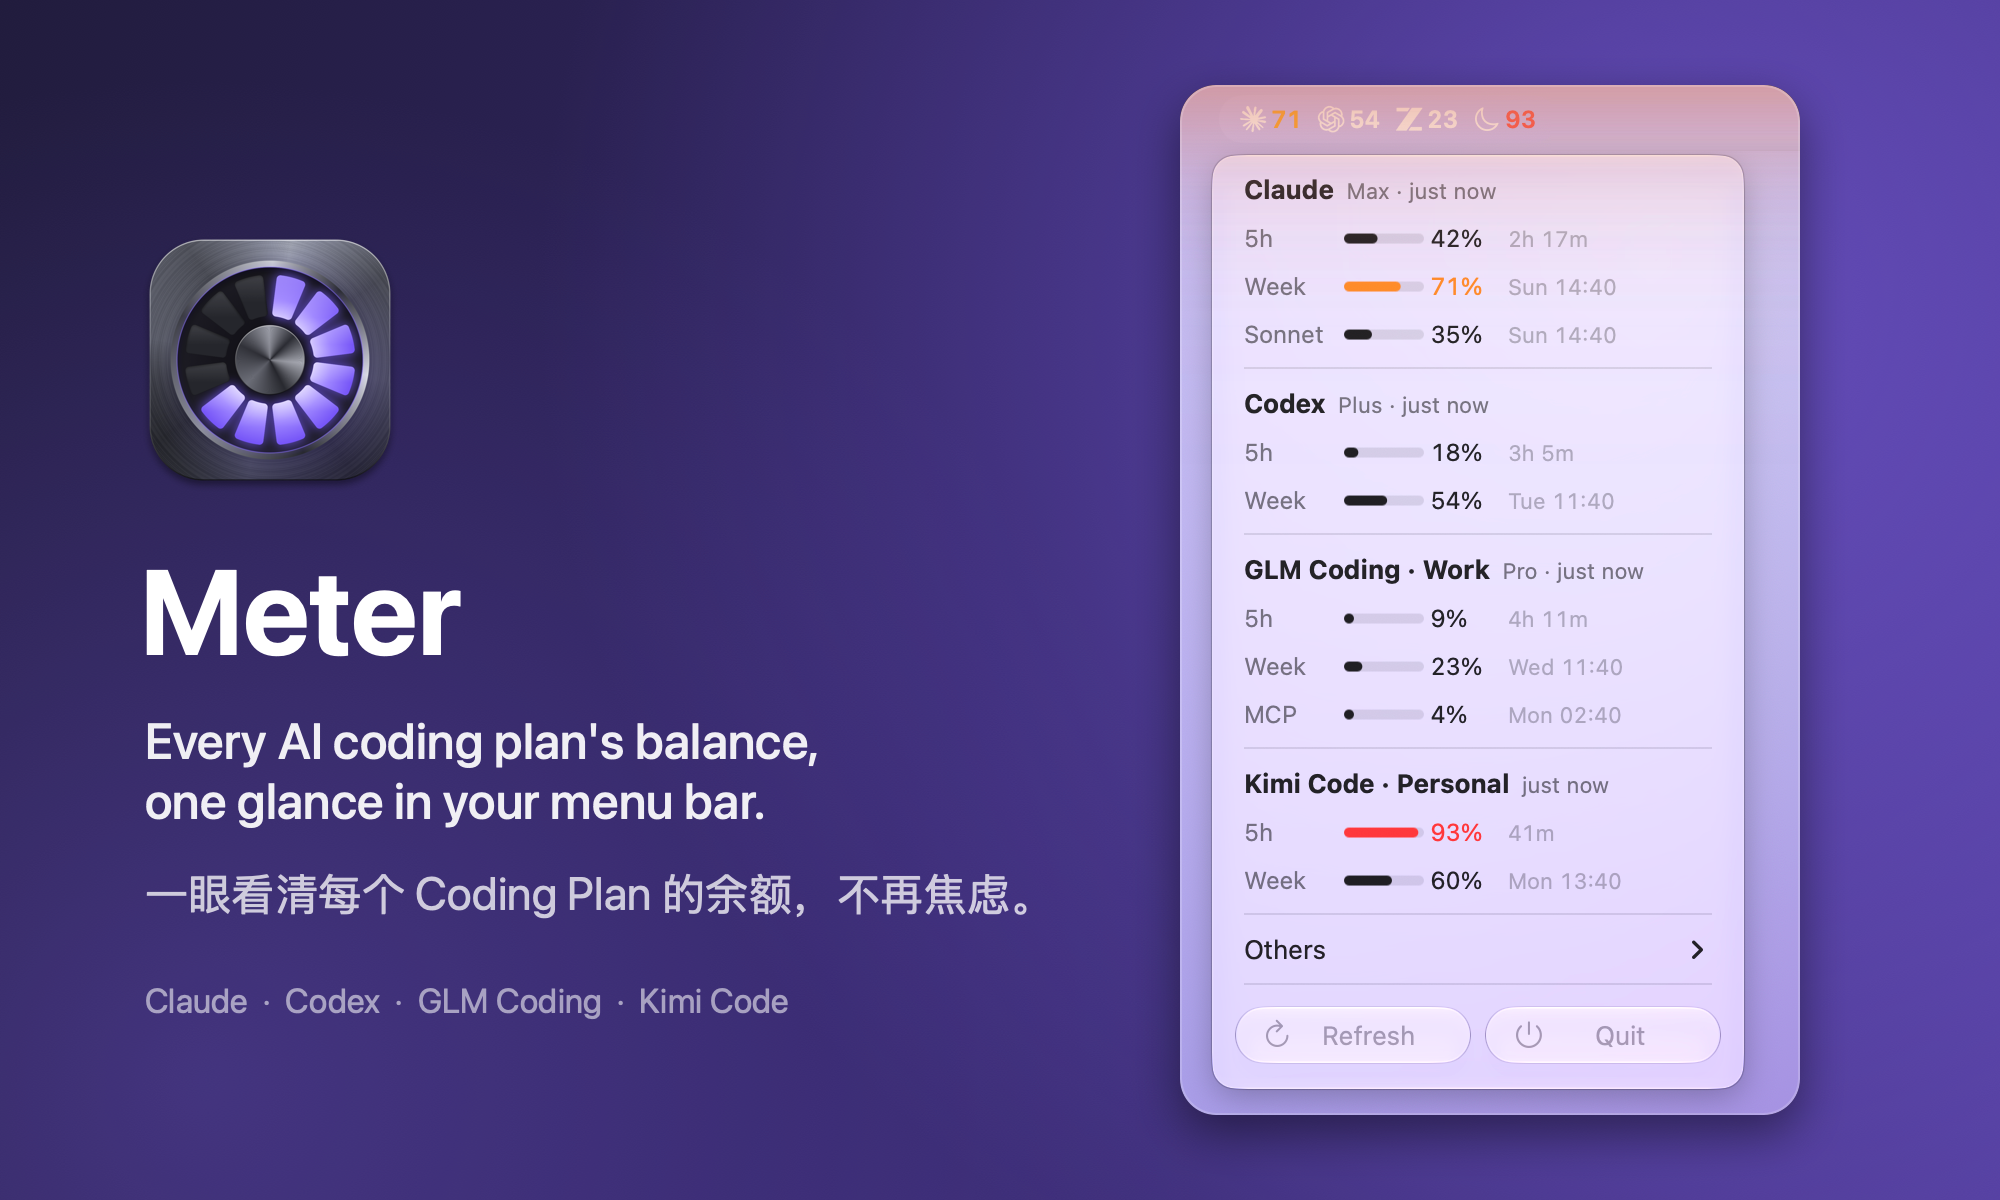
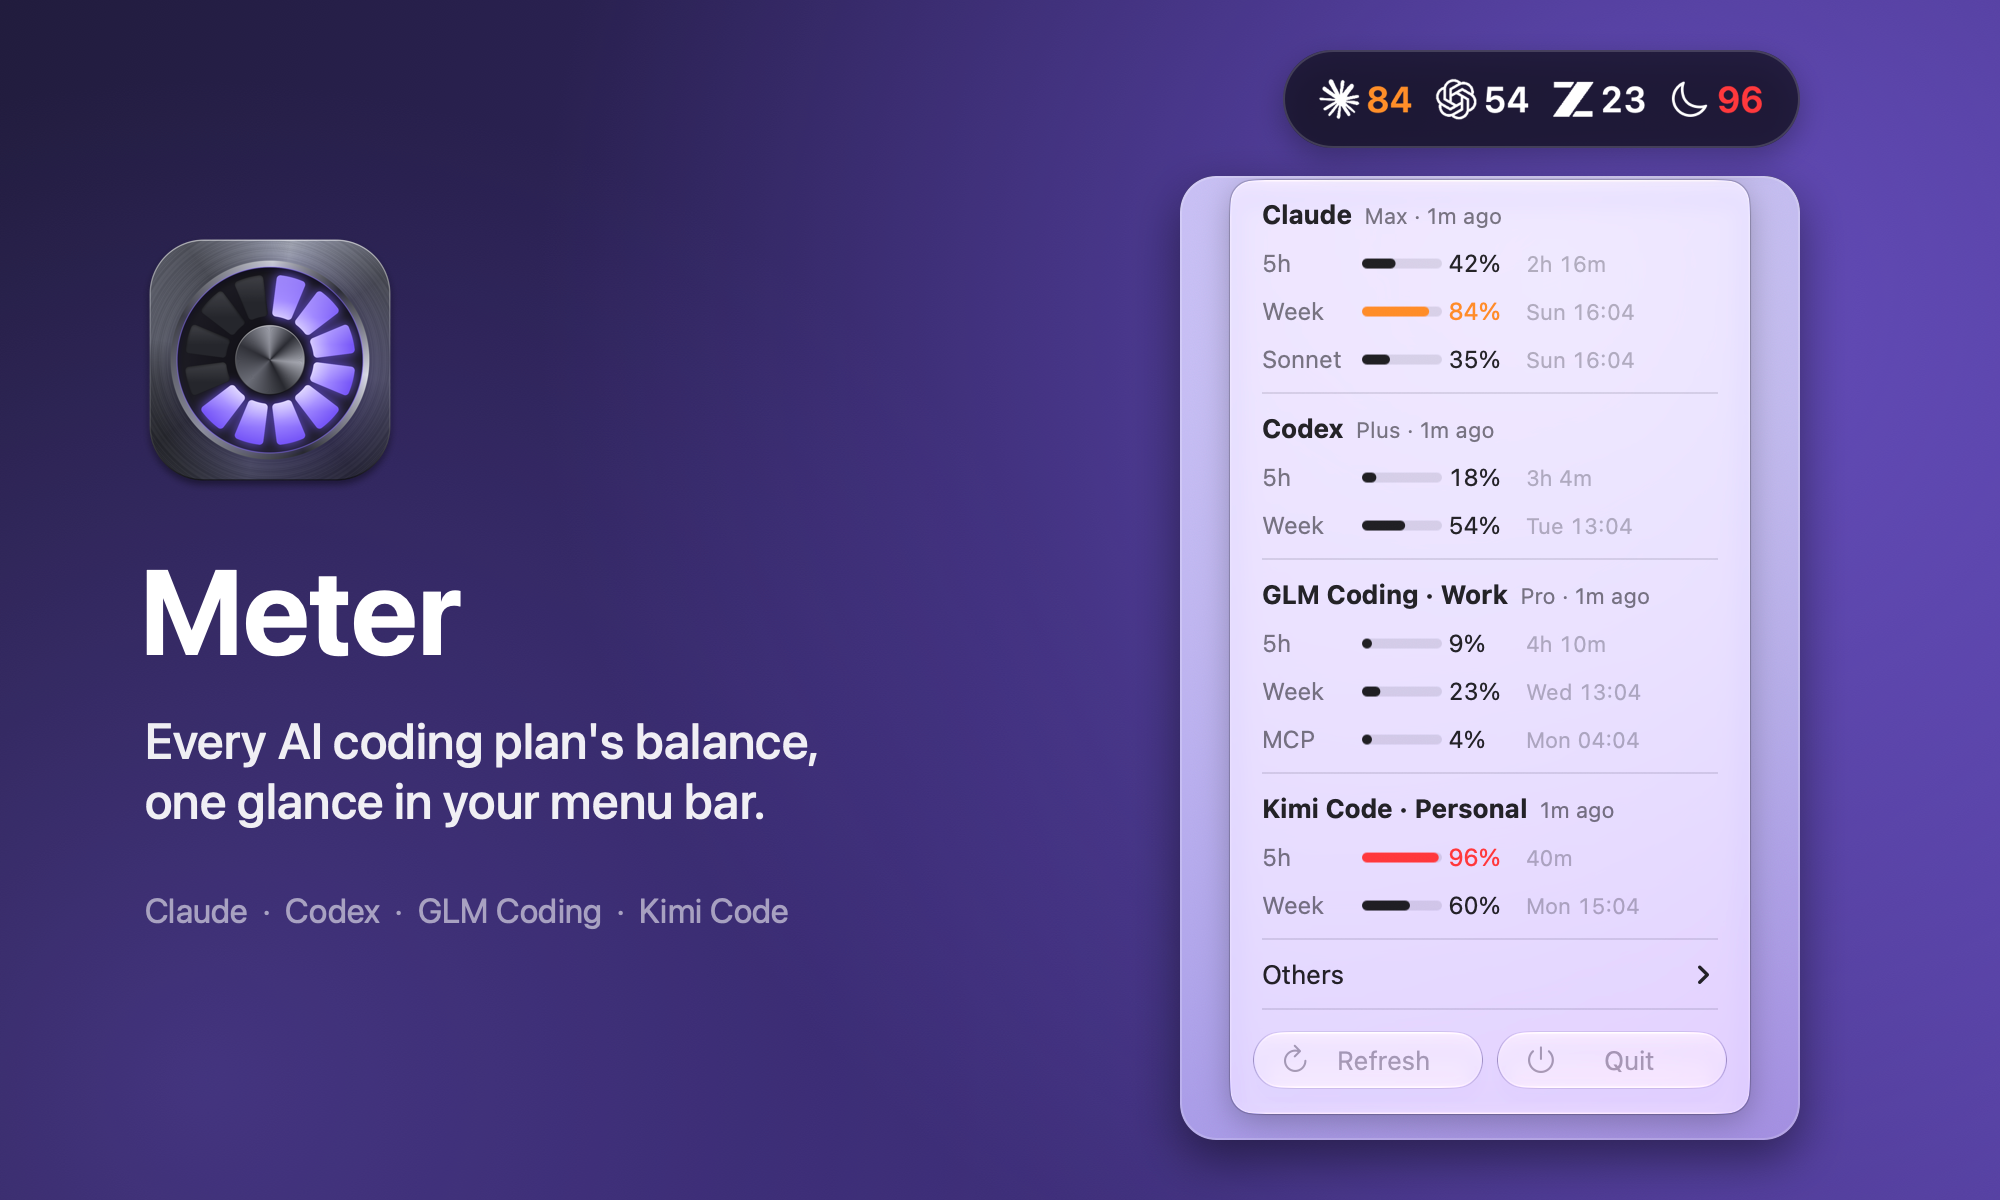
Separate English and Chinese READMEs, retake screenshots, 80/95% colours
- README.md is English only; README.zh-CN.md is the Chinese version, with a
  language switch at the top of each.
- Screenshots are English only and retaken without the screen-control glow;
  the hero's menu bar strip is rendered by the app itself.
- Usage turns orange at 80% and red at 95% (was 70% / 90%).

diff --git a/Sources/App.swift b/Sources/App.swift
@@ -117,6 +117,8 @@ struct ProviderState {
 final class AppDelegate: NSObject, NSApplicationDelegate, NSMenuDelegate {
     private static let refreshInterval: TimeInterval = 180
     private static let staleAfter: TimeInterval = 15 * 60
+    /// Usage turns orange, then red, as it nears the limit.
+    private static let orangeAt: Double = 80, redAt: Double = 95
 
     private let statusItem = NSStatusBar.system.statusItem(withLength: NSStatusItem.variableLength)
     private let menu = NSMenu()
@@ -271,7 +273,7 @@ final class AppDelegate: NSObject, NSApplicationDelegate, NSMenuDelegate {
     }
 
     private func level(_ percent: Double, normal: NSColor = .labelColor) -> NSColor {
-        percent >= 90 ? .systemRed : percent >= 70 ? .systemOrange : normal
+        percent >= Self.redAt ? .systemRed : percent >= Self.orangeAt ? .systemOrange : normal
     }
 
     private enum BarValue {
@@ -597,7 +599,7 @@ final class AppDelegate: NSObject, NSApplicationDelegate, NSMenuDelegate {
     }
 
     private func progressImage(_ percent: Double) -> NSImage {
-        let color: NSColor = percent >= 90 ? .systemRed : percent >= 70 ? .systemOrange : .labelColor
+        let color = level(percent)
         return NSImage(size: NSSize(width: 40, height: 5), flipped: false) { rect in
             NSColor.quaternaryLabelColor.setFill()
             NSBezierPath(roundedRect: rect, xRadius: 2.5, yRadius: 2.5).fill()

diff --git a/Sources/Demo.swift b/Sources/Demo.swift
@@ -50,10 +50,10 @@ enum DemoData {
                                              plan: plan, fetchedAt: now))
         }
         return [
-            sources[0].id: snapshot("max", [("5-hour", 42, 2.3), ("Week", 71, 52), ("Sonnet wk", 35, 52)]),
+            sources[0].id: snapshot("max", [("5-hour", 42, 2.3), ("Week", 84, 52), ("Sonnet wk", 35, 52)]),
             sources[1].id: snapshot("plus", [("5-hour", 18, 3.1), ("Week", 54, 97)]),
             sources[2].id: snapshot("pro", [("5-hour", 9, 4.2), ("Week", 23, 121), ("MCP/mo", 4, 400)]),
-            sources[3].id: snapshot(nil, [("5-hour", 93, 0.7), ("Week", 60, 75)]),
+            sources[3].id: snapshot(nil, [("5-hour", 96, 0.7), ("Week", 60, 75)]),
         ]
     }
 }

diff --git a/README.md b/README.md
@@ -1,4 +1,8 @@
 <p align="center">
+  <b>English</b> · <a href="README.zh-CN.md">简体中文</a>
+</p>
+
+<p align="center">
   <img src="docs/icon.png" width="128" alt="Meter icon">
 </p>
 
@@ -6,23 +10,14 @@
 
 <p align="center">
   <b>Every AI coding plan's balance — one glance in your menu bar.</b><br>
-  一眼看清每个 AI Coding Plan 的余额，不再为额度焦虑。
-</p>
-
-<p align="center">
-  Claude · Codex · GLM Coding Plan · Kimi Code<br>
-  <a href="#english">English</a> · <a href="#中文">中文</a>
+  Claude · Codex · GLM Coding Plan · Kimi Code
 </p>
 
 <p align="center">
   <img src="docs/hero.png" alt="Meter menu showing Claude, Codex, GLM Coding and Kimi Code usage">
 </p>
 
----
-
-## English
-
-### Why Meter
+## Why Meter
 
 If you pay for more than one AI coding plan, you know the feeling. Claude, Codex, GLM and Kimi
 each meter you differently — 5-hour windows, weekly caps, monthly MCP quotas — and each hides the
@@ -35,11 +30,11 @@ it and keep worrying about hitting the wall.
 **Meter puts every plan's remaining headroom in your menu bar.** One glance tells you which plan has
 room right now and when each window resets — so you pick the right tool and get back to work.
 
-### Features
+## Features
 
 - **All plans at a glance** — a monochrome logo and one number per plan. The number is the
   tightest window, i.e. the limit that will stop you first.
-- **Colour only when it matters** — numbers turn orange at 70% and red at 90%.
+- **Colour only when it matters** — numbers turn orange at 80% and red at 95%.
 - **Details on click** — every window with a progress bar, percentage and reset time. Click a plan's
   name to open its app; click a row to open its official usage page.
 - **Multiple accounts** — add as many GLM Coding Plan / Kimi Code API keys as you like.
@@ -55,7 +50,7 @@ room right now and when each window resets — so you pick the right tool and ge
 
 Prefer something even smaller? Switch to **Rings** in *Others › Menu Bar Style*.
 
-### Install
+## Install
 
 Requires macOS 13 or later on Apple silicon. Build from source (takes a few seconds):
 
@@ -74,7 +69,7 @@ Then connect your plans:
 
 Meter turns on *Launch at Login* the first time it runs; toggle it under *Others*.
 
-### Where the data comes from
+## Where the data comes from
 
 | Plan | Credentials | Usage endpoint |
 |---|---|---|
@@ -87,7 +82,7 @@ Claude and Codex access tokens expire after a few hours. Meter refreshes them th
 official CLIs do and writes the new tokens back to the same place, so the CLIs keep working too.
 Diagnostics (never containing secrets) go to `~/Library/Logs/Meter.log` (*Others › Open Log*).
 
-### Development
+## Development
 
 ```bash
 ./build.sh                    # build into build/Meter.app
@@ -100,69 +95,7 @@ swift Tools/make-icon.swift sheet styles.png  # compare icon materials: flat, al
 
 Formerly called UsageBar; the bundle id is still `local.usagebar` so existing settings carry over.
 
----
-
-## 中文
-
-### 为什么做 Meter
-
-同时订阅了好几个 AI Coding Plan 的人，大概都有过这种感受：Claude、Codex、GLM、Kimi 各有各的计量方式——
-5 小时窗口、周限额、MCP 月额度——用量还分散在各自的设置页里。要么一个个打开去看，要么干脆不看，
-等到 agent 写到一半突然停下，才发现额度用完了。
-
-最难受的是心里没底：要么舍不得用，总想"留着以后用"；要么放开用，又时刻担心随时撞上限额。
-
-**Meter 把所有套餐的剩余额度放进菜单栏。** 扫一眼就知道哪个还有余量、各个窗口什么时候重置，
-挑对工具接着干，不再为额度焦虑。
-
-### 功能
-
-- **一眼看全** —— 每个套餐一个黑白 logo 加一个数字。数字取最紧的那个窗口，也就是最先会卡住你的限额。
-- **只在需要时提醒** —— 用量到 70% 数字变橙，到 90% 变红。
-- **点开看详情** —— 每个窗口都有进度条、百分比和重置时间。点套餐名打开对应 app，点用量行打开官方用量页。
-- **多账号** —— GLM Coding Plan 和 Kimi Code 可以添加任意多个 API key。
-- **稳定不掉线** —— 自动刷新 Claude 和 Codex 的登录凭证；请求失败时继续显示上次的数据；出错时自动退避重试；
-  电脑唤醒后立即刷新；真的需要重新登录时，菜单里一键 "Sign In Again"。
-- **隐私** —— 只访问各家官方的用量接口，密钥只存在你的 Mac 上，没有任何统计上报。
-- **原生轻量** —— Swift + AppKit，零依赖，macOS 26 上是 Liquid Glass 风格菜单。
-
-<p align="center">
-  <img src="docs/menubar.png" alt="菜单栏样式：数字与圆环，深色与浅色菜单栏">
-</p>
-
-想要更短？在 *Others › Menu Bar Style* 里切到 **Rings（圆环）**。
-
-### 安装
-
-需要 macOS 13 及以上、Apple 芯片。从源码编译（几秒钟）：
-
-```bash
-git clone https://github.com/zjulhc-pixel/Meter.git && cd Meter && ./build.sh install
-```
-
-然后接入你的套餐：
-
-| 套餐 | 接入方式 |
-|---|---|
-| Claude（Pro / Max） | 用 Claude Code 登录一次（运行 `claude`），Meter 直接复用这个登录。 |
-| Codex（ChatGPT 套餐） | 登录一次 Codex（Codex CLI 或 ChatGPT app）。 |
-| GLM Coding Plan | *Others › Accounts › Add GLM Coding Plan Account…*，填入 API key。 |
-| Kimi Code | *Others › Accounts › Add Kimi Code Account…*，填入 `sk-kimi-…` 开头的 key。 |
-
-Meter 首次运行会自动开启开机自启，可在 *Others* 里关闭。
-
-### 数据来源
-
-数据来源和凭证位置见上方英文部分的表格。Claude 和 Codex 的访问令牌几个小时就会过期，Meter 用和官方 CLI
-相同的方式自动刷新，并写回原来的位置，所以 CLI 也能照常使用。诊断日志（不含任何密钥）在
-`~/Library/Logs/Meter.log`（*Others › Open Log*）。
-
----
-
-## License · 许可证
+## License
 
 MIT — see [LICENSE](LICENSE). Meter is an independent project and is not affiliated with Anthropic,
 OpenAI, Zhipu AI or Moonshot AI; product names and logos belong to their owners.
-
-MIT 许可证，详见 [LICENSE](LICENSE)。Meter 是独立项目，与 Anthropic、OpenAI、智谱 AI、月之暗面均无关联，
-产品名称和 logo 归各自所有者所有。

diff --git a/README.zh-CN.md b/README.zh-CN.md
@@ -1,0 +1,96 @@
+<p align="center">
+  <a href="README.md">English</a> · <b>简体中文</b>
+</p>
+
+<p align="center">
+  <img src="docs/icon.png" width="128" alt="Meter 图标">
+</p>
+
+<h1 align="center">Meter</h1>
+
+<p align="center">
+  <b>一眼看清每个 AI Coding Plan 的余额，不再为额度焦虑。</b><br>
+  Claude · Codex · GLM Coding Plan · Kimi Code
+</p>
+
+<p align="center">
+  <img src="docs/hero.png" alt="Meter 菜单，显示 Claude、Codex、GLM Coding 和 Kimi Code 的用量">
+</p>
+
+## 为什么做 Meter
+
+同时订阅了好几个 AI Coding Plan 的人，大概都有过这种感受：Claude、Codex、GLM、Kimi 各有各的计量方式——
+5 小时窗口、周限额、MCP 月额度——用量还分散在各自的设置页里。要么一个个打开去看，要么干脆不看，
+等到 agent 写到一半突然停下，才发现额度用完了。
+
+最难受的是心里没底：要么舍不得用，总想"留着以后用"；要么放开用，又时刻担心随时撞上限额。
+
+**Meter 把所有套餐的剩余额度放进菜单栏。** 扫一眼就知道哪个还有余量、各个窗口什么时候重置，
+挑对工具接着干，不再为额度焦虑。
+
+## 功能
+
+- **一眼看全**：每个套餐一个黑白 logo 加一个数字。数字取最紧的那个窗口，也就是最先会卡住你的限额。
+- **只在需要时提醒**：用量到 80% 数字变橙，到 95% 变红。
+- **点开看详情**：每个窗口都有进度条、百分比和重置时间。点套餐名打开对应 app，点用量行打开官方用量页。
+- **多账号**：GLM Coding Plan 和 Kimi Code 可以添加任意多个 API key。
+- **稳定不掉线**：自动刷新 Claude 和 Codex 的登录凭证；请求失败时继续显示上次的数据；出错时自动退避重试；
+  电脑唤醒后立即刷新；真的需要重新登录时，菜单里一键重新登录。
+- **隐私**：只访问各家官方的用量接口，密钥只存在你的 Mac 上，没有任何统计上报。
+- **原生轻量**：Swift + AppKit 编写，零依赖，macOS 26 上是 Liquid Glass 风格菜单。
+
+<p align="center">
+  <img src="docs/menubar.png" alt="菜单栏样式：数字与圆环，深色与浅色菜单栏">
+</p>
+
+想要更短？在菜单 *Others › Menu Bar Style* 里切换到圆环样式（Rings）。
+
+## 安装
+
+需要 macOS 13 及以上、Apple 芯片。从源码编译，只需几秒钟：
+
+```bash
+git clone https://github.com/zjulhc-pixel/Meter.git && cd Meter && ./build.sh install
+```
+
+然后接入你的套餐：
+
+| 套餐 | 接入方式 |
+|---|---|
+| Claude（Pro / Max） | 用 Claude Code 登录一次（运行 `claude`），Meter 直接复用这个登录。 |
+| Codex（ChatGPT 套餐） | 登录一次 Codex（Codex 命令行或 ChatGPT app）。 |
+| GLM Coding Plan | 菜单 *Others › Accounts › Add GLM Coding Plan Account…*，填入 API key。 |
+| Kimi Code | 菜单 *Others › Accounts › Add Kimi Code Account…*，填入以 `sk-kimi-` 开头的 key。 |
+
+Meter 首次运行会自动开启开机自启，可在菜单 *Others* 里关闭。
+
+## 数据来源
+
+| 套餐 | 凭证位置 | 用量接口 |
+|---|---|---|
+| Claude | Claude Code 的钥匙串项 `Claude Code-credentials`（或 `~/.claude/.credentials.json`） | `api.anthropic.com/api/oauth/usage` |
+| Codex | `~/.codex/auth.json`（`$CODEX_HOME`） | `chatgpt.com/backend-api/wham/usage` |
+| GLM Coding | `~/Library/Application Support/Meter/accounts.json` 中的 API key | `open.bigmodel.cn/api/monitor/usage/quota/limit` |
+| Kimi Code | 同一文件中的 API key | `api.kimi.com/coding/v1/usages` |
+
+Claude 和 Codex 的访问令牌几个小时就会过期。Meter 用和官方命令行工具相同的方式自动刷新，并写回原来的位置，
+所以命令行工具也能照常使用。诊断日志（不含任何密钥）在 `~/Library/Logs/Meter.log`，也可以从菜单
+*Others › Open Log* 打开。
+
+## 开发
+
+```bash
+./build.sh                    # 编译到 build/Meter.app
+./build.sh install            # 替换 /Applications/Meter.app 并重新启动
+build/Meter.app/Contents/MacOS/Meter --check   # 拉取一次所有套餐的用量并打印结果
+build/Meter.app/Contents/MacOS/Meter --demo    # 演示数据，不联网（可加 --rings / --backdrop）
+swift Tools/make-icon.swift titanium Resources/AppIcon.icns   # 重新生成图标
+swift Tools/make-icon.swift sheet styles.png  # 对比各种图标材质：flat、aluminum、titanium、glass、obsidian
+```
+
+Meter 原名 UsageBar；bundle id 仍是 `local.usagebar`，所以原有设置会自动保留。
+
+## 许可证
+
+MIT 许可证，详见 [LICENSE](LICENSE)。Meter 是独立项目，与 Anthropic、OpenAI、智谱 AI、月之暗面均无关联，
+产品名称和 logo 归各自所有者所有。
